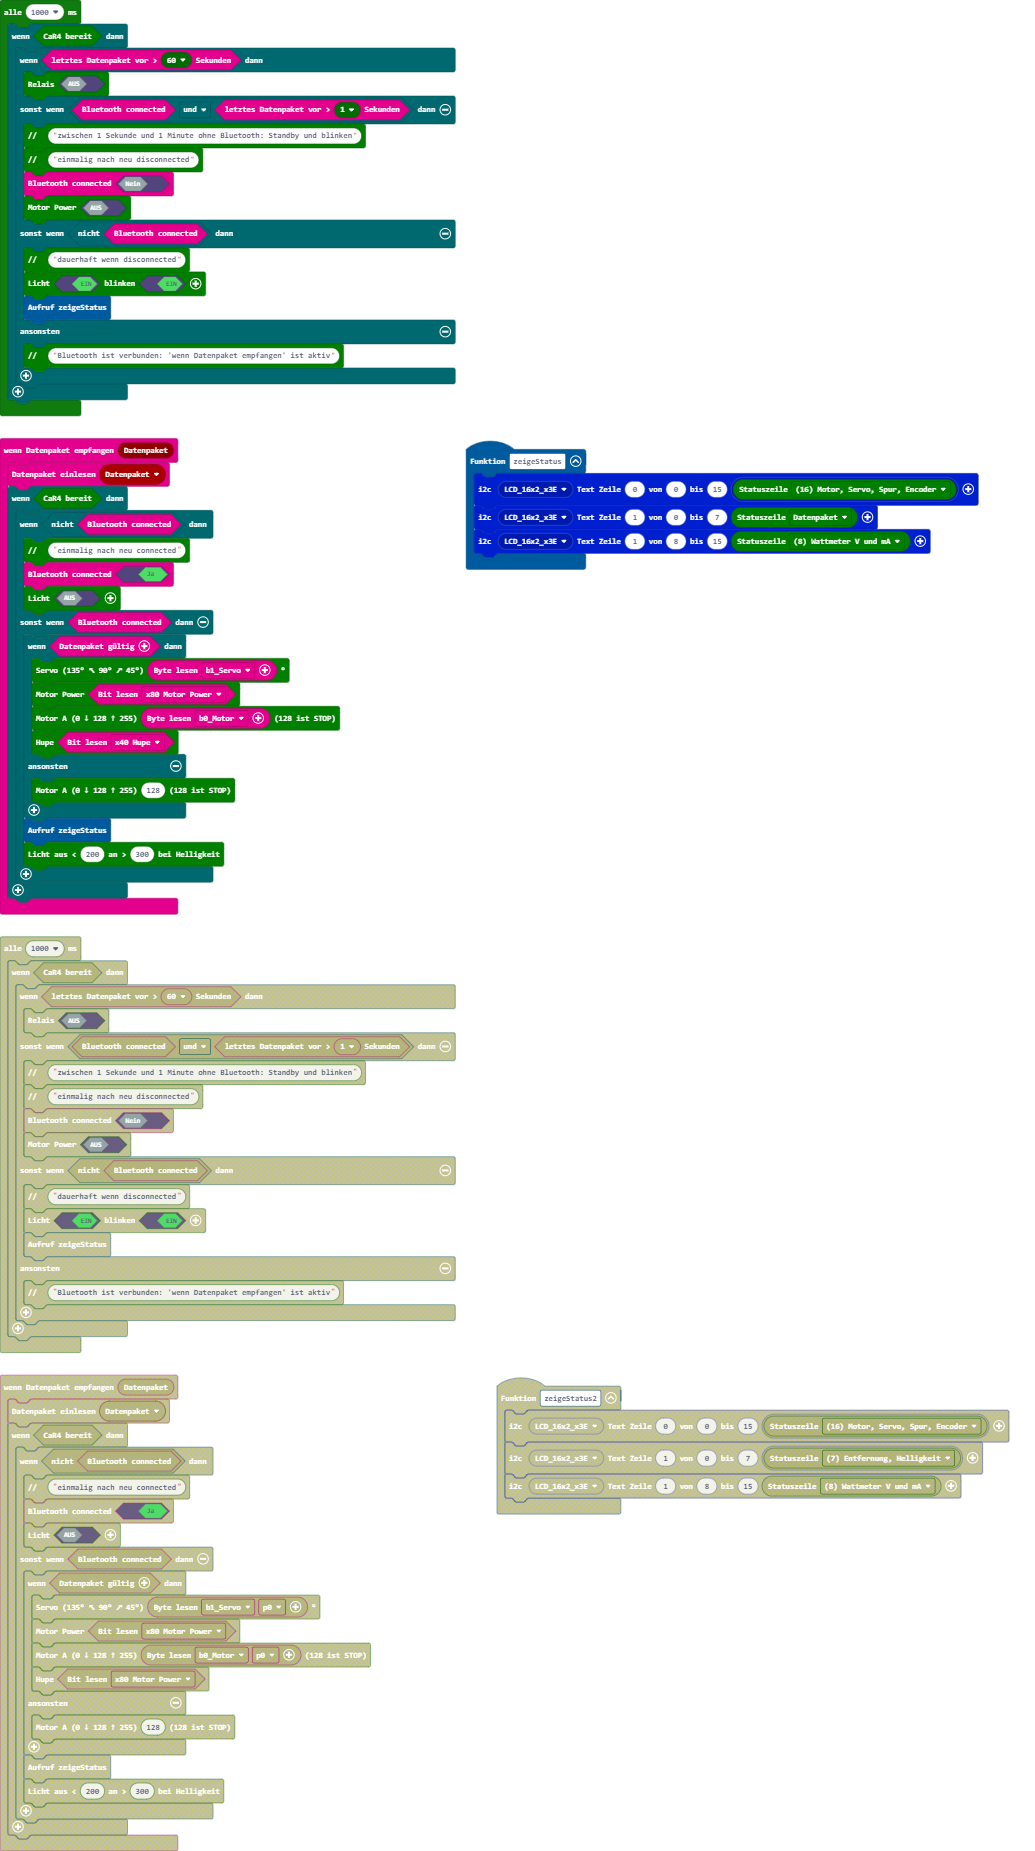
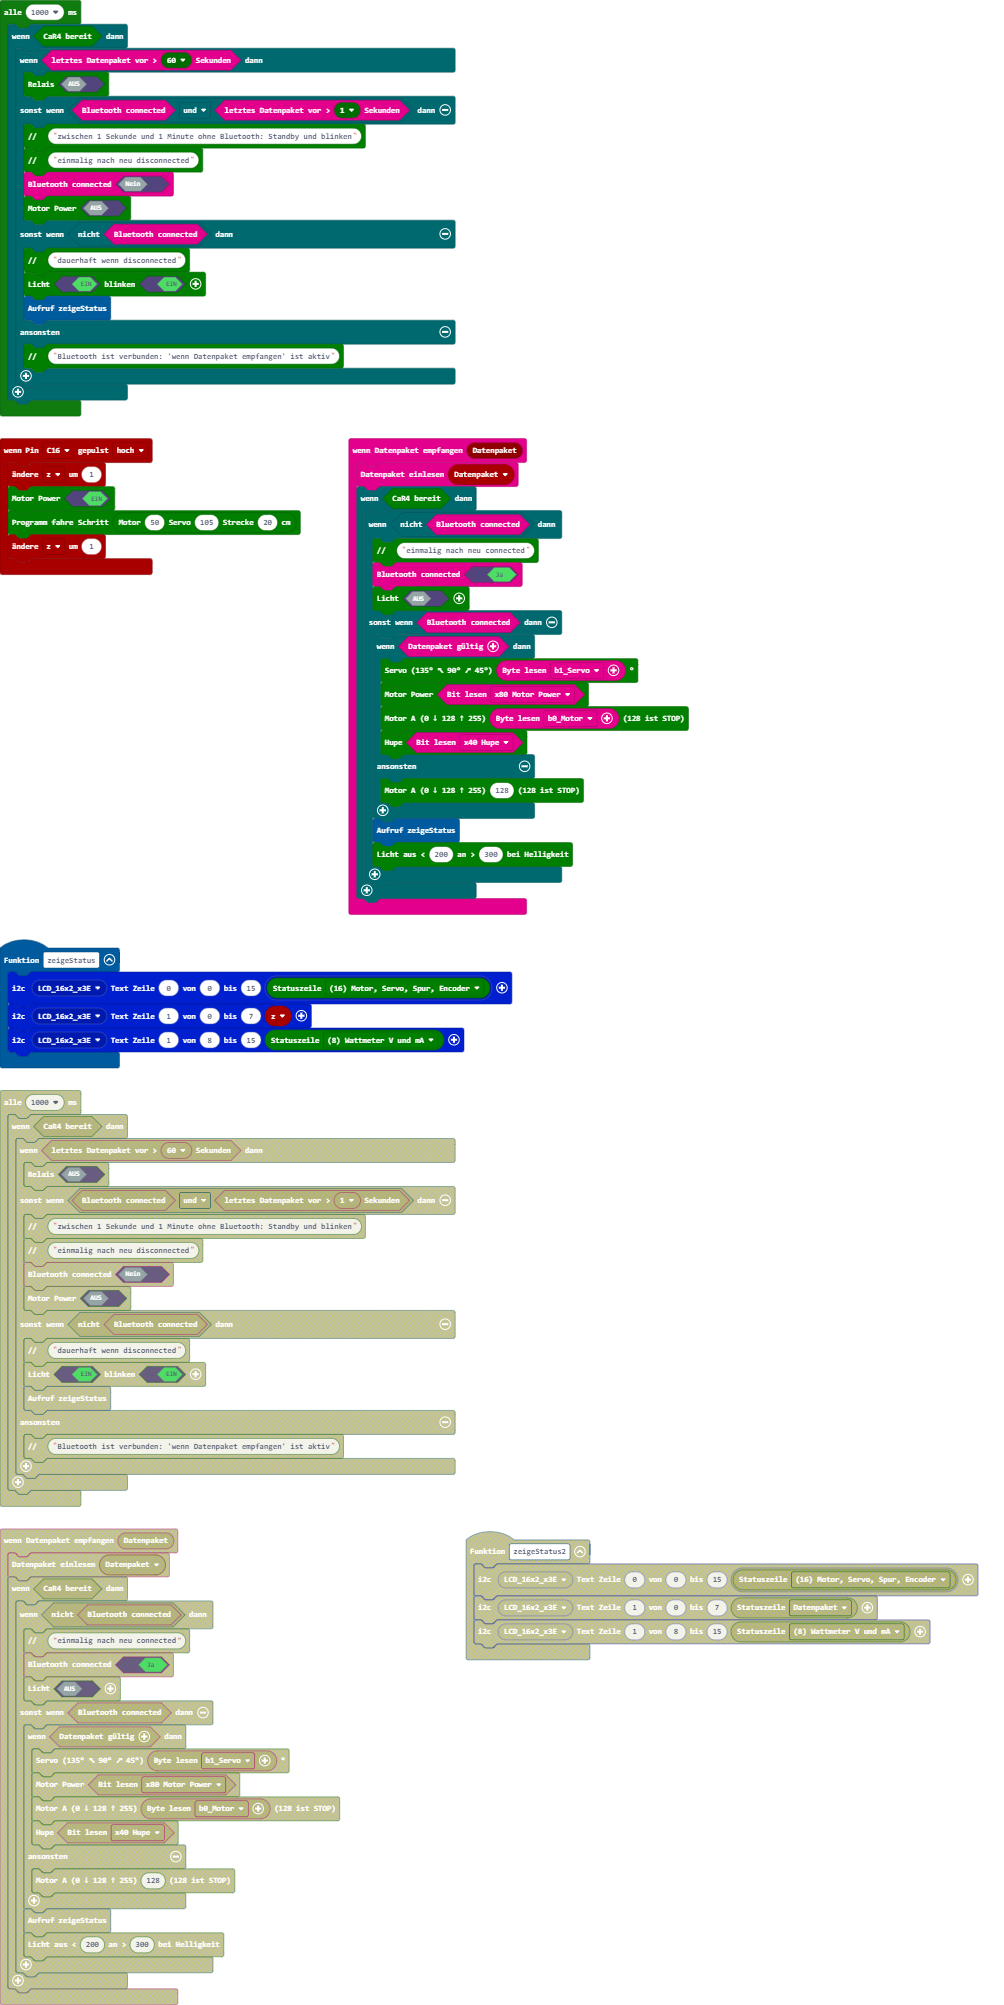
Aktualisiere pxt.json, main.blocks, main.ts

diff --git a/main.ts b/main.ts
@@ -1,6 +1,6 @@
 function zeigeStatus () {
     lcd16x2rgb.writeText(lcd16x2rgb.lcd16x2_eADDR(lcd16x2rgb.eADDR_LCD.LCD_16x2_x3E), 0, 0, 15, lcd16x2rgb.lcd16x2_text(car4.statuszeile1(car4.eStatuszeile.a)))
-    lcd16x2rgb.writeText(lcd16x2rgb.lcd16x2_eADDR(lcd16x2rgb.eADDR_LCD.LCD_16x2_x3E), 1, 0, 7, car4.statuszeile1(car4.eStatuszeile.buffer))
+    lcd16x2rgb.writeText(lcd16x2rgb.lcd16x2_eADDR(lcd16x2rgb.eADDR_LCD.LCD_16x2_x3E), 1, 0, 7, z)
     lcd16x2rgb.writeText(lcd16x2rgb.lcd16x2_eADDR(lcd16x2rgb.eADDR_LCD.LCD_16x2_x3E), 1, 8, 15, car4.statuszeile1(car4.eStatuszeile.c))
 }
 input.onButtonEvent(Button.B, input.buttonEventClick(), function () {
@@ -27,9 +27,16 @@ radio.onReceivedBuffer(function (Datenpaket) {
         }
     }
 })
+pins.onPulsed(DigitalPin.C16, PulseValue.High, function () {
+    z += 1
+    car4.motorON(true)
+    car4.fahreSchritt(car4.programmSchritt(50, 105, 20))
+    z += 1
+})
 control.onEvent(car4.encoder_EventSource(), EventBusValue.MICROBIT_EVT_ANY, function () {
 	
 })
+let z = 0
 car4.beimStart(240, 97)
 lcd16x2rgb.initLCD(lcd16x2rgb.lcd16x2_eADDR(lcd16x2rgb.eADDR_LCD.LCD_16x2_x3E))
 lcd16x2rgb.writeText(lcd16x2rgb.lcd16x2_eADDR(lcd16x2rgb.eADDR_LCD.LCD_16x2_x3E), 0, 0, 15, lcd16x2rgb.lcd16x2_text(car4.statuszeile1(car4.eStatuszeile.start)))
